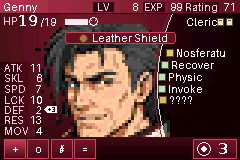
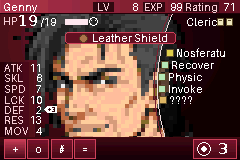
Retrato x4: distancia entre ojos igual a la guía
Claude-Session: https://claude.ai/code/session_01C4QAM7MwvCQVjJLG12SBSt

Changed region(s): [[0.0292, 0.0625, 0.7875, 0.875], [0.7583, 0.8125, 0.8167, 0.875]]

diff --git a/gba_status/generar.py b/gba_status/generar.py
@@ -22,7 +22,7 @@ for y in range(H):
         img.putpixel((x, y), lerp((128, 32, 48), (40, 6, 14), k))
 
 # retrato (arte del usuario, fondo morado transparente)
-RX, RY = -28, 21  # ojos alineados con la guia
+RX, RY = -71, 0  # ojos alineados con la guia
 art = Image.open("retrato_busto.png").convert("RGB")
 bgc = (77, 26, 77)
 # quitar fondo morado y marco gris conectado al borde (flood fill)
@@ -38,7 +38,7 @@ for y in range(art.height):
     for x in range(art.width):
         if art.getpixel((x, y)) == bgc: mask.putpixel((x, y), 0)
         art.putpixel((x, y), c(*art.getpixel((x, y))))
-ESC = 3.0  # cabeza grande, cortada bajo los hombros
+ESC = 4.0  # cabeza grande, cortada bajo los hombros
 art = art.resize((int(art.width * ESC), int(art.height * ESC)), Image.NEAREST)
 mask = mask.resize(art.size, Image.NEAREST)
 img.paste(art, (RX, RY), mask)
